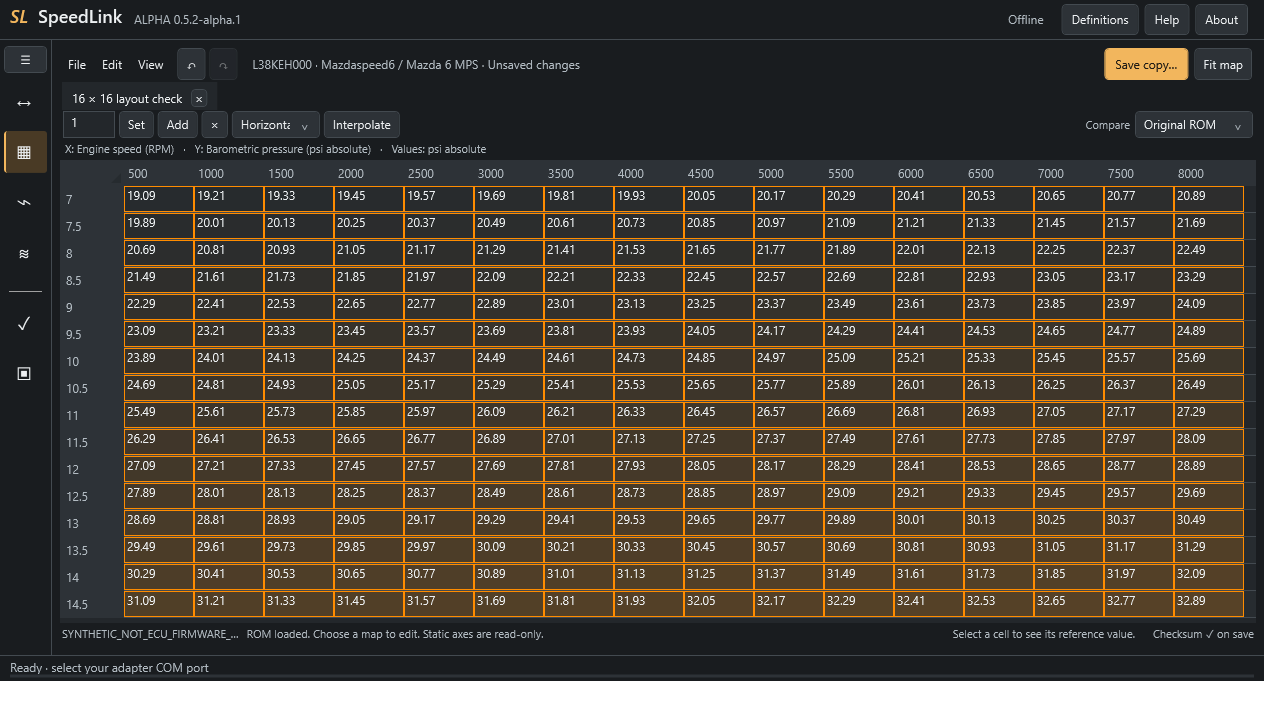
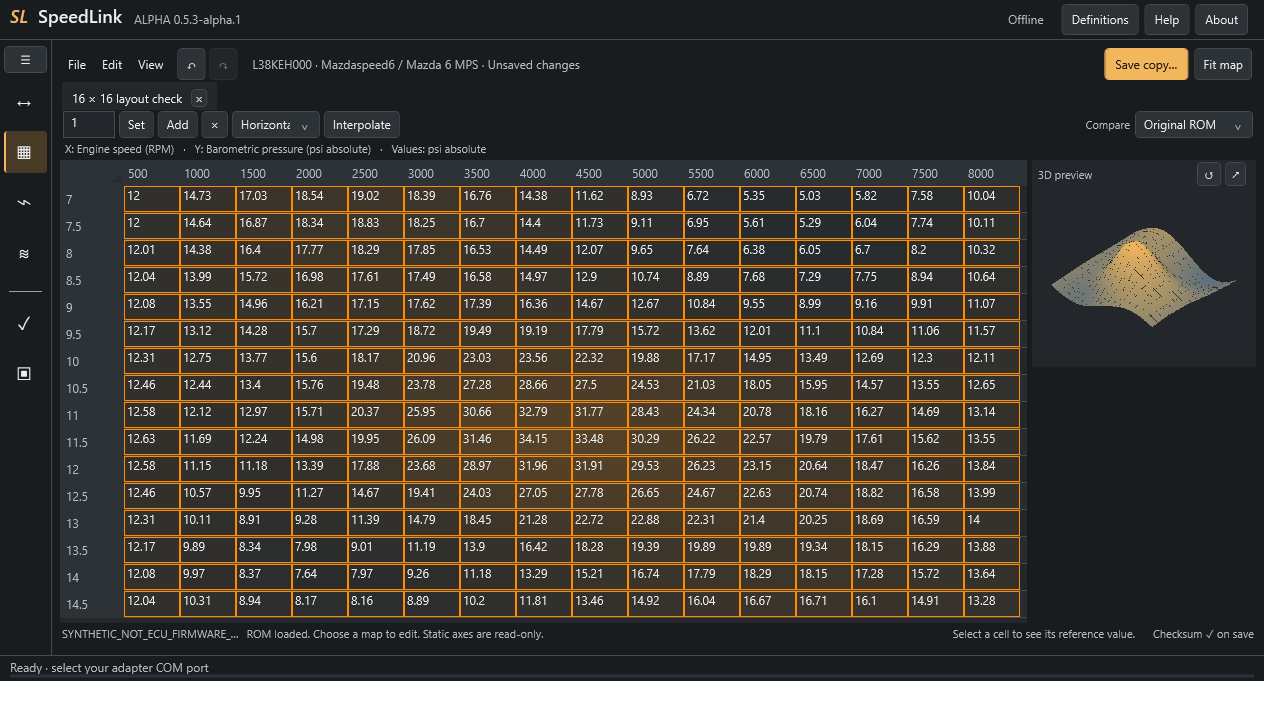
Keep a compact 3D preview beside table editing

Changed region(s): [[0.0938, 0.2139, 1.0, 0.8556]]

diff --git a/dotnet/src/SpeedLink.Desktop/EditorWorkspace.xaml b/dotnet/src/SpeedLink.Desktop/EditorWorkspace.xaml
@@ -9,7 +9,7 @@
    <Menu DockPanel.Dock="Left" Background="Transparent" Foreground="{DynamicResource TextBrush}" VerticalAlignment="Center">
     <MenuItem Header="_File"><MenuItem Header="Open ROM…" InputGestureText="Ctrl+O" Click="Open_Click"/><MenuItem Header="Save a new copy…" InputGestureText="Ctrl+S" Click="Save_Click"/><Separator/><MenuItem Header="Editor guide" Click="Guide_Click"/></MenuItem>
     <MenuItem Header="_Edit"><MenuItem Header="Copy" InputGestureText="Ctrl+C" Click="Copy_Click"/><MenuItem Header="Paste" InputGestureText="Ctrl+V" Click="Paste_Click"/><MenuItem Header="Reset selection to baseline" Click="Reset_Click"/><Separator/><MenuItem x:Name="CompareButton" Header="Compare ROM…" Click="Compare_Click"/></MenuItem>
-    <MenuItem Header="_View"><MenuItem Header="Fit entire map" InputGestureText="Ctrl+0" Click="FitMap_Click"/><Separator/><MenuItem x:Name="BelowItem" Header="Table above graph" Tag="0" IsCheckable="True" Click="ViewMenu_Click"/><MenuItem x:Name="BesideItem" Header="Table beside graph" Tag="1" IsCheckable="True" Click="ViewMenu_Click"/><MenuItem x:Name="TableItem" Header="Table only" Tag="2" IsCheckable="True" Click="ViewMenu_Click"/><MenuItem x:Name="GraphItem" Header="Graph only" Tag="3" IsCheckable="True" Click="ViewMenu_Click"/><Separator/><MenuItem x:Name="FocusButton" Header="Hide map browser" InputGestureText="Ctrl+B" IsCheckable="True" Checked="Layout_Changed" Unchecked="Layout_Changed"/><MenuItem Header="Pop out map browser" Click="PopBrowser_Click"/><MenuItem Header="Dock map browser" Click="DockBrowser_Click"/><MenuItem Header="Pop out graph" Click="PopGraph_Click"/><MenuItem Header="Dock graph" Click="DockGraph_Click"/><Separator/><MenuItem x:Name="DetailsButton" Header="Map information…" IsCheckable="True" Checked="Layout_Changed" Unchecked="Layout_Changed"/><MenuItem x:Name="ChangesButton" Header="Changes (0)" IsCheckable="True" Checked="Layout_Changed" Unchecked="Layout_Changed"/></MenuItem>
+    <MenuItem Header="_View"><MenuItem Header="Fit entire map" InputGestureText="Ctrl+0" Click="FitMap_Click"/><Separator/><MenuItem x:Name="PreviewItem" Header="Table with 3D preview" Tag="4" IsCheckable="True" Click="ViewMenu_Click"/><MenuItem x:Name="BelowItem" Header="Table above graph" Tag="0" IsCheckable="True" Click="ViewMenu_Click"/><MenuItem x:Name="BesideItem" Header="Table beside graph" Tag="1" IsCheckable="True" Click="ViewMenu_Click"/><MenuItem x:Name="TableItem" Header="Table only" Tag="2" IsCheckable="True" Click="ViewMenu_Click"/><MenuItem x:Name="GraphItem" Header="Graph only" Tag="3" IsCheckable="True" Click="ViewMenu_Click"/><Separator/><MenuItem x:Name="FocusButton" Header="Hide map browser" InputGestureText="Ctrl+B" IsCheckable="True" Checked="Layout_Changed" Unchecked="Layout_Changed"/><MenuItem Header="Pop out map browser" Click="PopBrowser_Click"/><MenuItem Header="Dock map browser" Click="DockBrowser_Click"/><MenuItem Header="Pop out graph" Click="PopGraph_Click"/><MenuItem Header="Dock graph" Click="DockGraph_Click"/><Separator/><MenuItem x:Name="DetailsButton" Header="Map information…" IsCheckable="True" Checked="Layout_Changed" Unchecked="Layout_Changed"/><MenuItem x:Name="ChangesButton" Header="Changes (0)" IsCheckable="True" Checked="Layout_Changed" Unchecked="Layout_Changed"/></MenuItem>
    </Menu>
    <StackPanel DockPanel.Dock="Left" Orientation="Horizontal" Margin="6,0"><Button x:Name="UndoButton" Content="↶" Click="Undo_Click" ToolTip="Undo · Ctrl+Z" Width="28"/><Button x:Name="RedoButton" Content="↷" Click="Redo_Click" ToolTip="Redo · Ctrl+Y" Width="28"/></StackPanel>
    <TextBlock x:Name="ProfileText" VerticalAlignment="Center" Foreground="{DynamicResource MutedBrush}" TextTrimming="CharacterEllipsis" Margin="5,0"/>
@@ -36,7 +36,7 @@
       <DataGrid.ColumnHeaderStyle><Style TargetType="DataGridColumnHeader" BasedOn="{StaticResource {x:Type DataGridColumnHeader}}"><Setter Property="Padding" Value="4,2"/></Style></DataGrid.ColumnHeaderStyle>
      </DataGrid>
      <GridSplitter x:Name="DataSplitter" Grid.Row="1" Height="5" HorizontalAlignment="Stretch" Background="{DynamicResource ShellBrush}" DragCompleted="LayoutSplitter_Completed"/>
-     <Grid x:Name="GraphPanel" Grid.Row="2" Background="{DynamicResource PanelBrush}"><Grid.RowDefinitions><RowDefinition Height="28"/><RowDefinition Height="*"/></Grid.RowDefinitions><DockPanel Margin="6,2"><StackPanel DockPanel.Dock="Right" Orientation="Horizontal"><Button Content="Fit view" Click="ResetView_Click" Padding="6,1" MinHeight="23"/><Button Content="↗" Click="PopGraph_Click" ToolTip="Pop out graph" Padding="5,1" MinHeight="23"/></StackPanel><TextBlock x:Name="GraphTitle" Text="Curve / surface" Foreground="{DynamicResource MutedBrush}" FontSize="11" TextTrimming="CharacterEllipsis" VerticalAlignment="Center"/></DockPanel><local:TuningGraph Grid.Row="1" x:Name="Graph" Margin="4"/></Grid>
+     <Grid x:Name="GraphPanel" Grid.Row="2" Background="{DynamicResource PanelBrush}"><Grid.RowDefinitions><RowDefinition Height="28"/><RowDefinition Height="*"/></Grid.RowDefinitions><DockPanel Margin="6,2"><StackPanel DockPanel.Dock="Right" Orientation="Horizontal"><Button x:Name="FitViewButton" Content="Fit view" ToolTip="Fit view" Click="ResetView_Click" Padding="6,1" MinHeight="23"/><Button Content="↗" Click="PopGraph_Click" ToolTip="Pop out graph" Padding="5,1" MinHeight="23"/></StackPanel><TextBlock x:Name="GraphTitle" Text="Curve / surface" Foreground="{DynamicResource MutedBrush}" FontSize="11" TextTrimming="CharacterEllipsis" VerticalAlignment="Center"/></DockPanel><local:TuningGraph Grid.Row="1" x:Name="Graph" Margin="4"/></Grid>
     </Grid>
    </Grid>
    <Border x:Name="DetailsPanel" Grid.Column="2" Visibility="Collapsed" Background="{DynamicResource PanelBrush}" Padding="14"><ScrollViewer VerticalScrollBarVisibility="Auto"><StackPanel><TextBlock x:Name="MapTitle" FontSize="17" FontWeight="SemiBold" TextWrapping="Wrap"/><TextBlock x:Name="HelpText" Text="Choose a map." TextWrapping="Wrap" Margin="0,10"/><Expander Header="Storage details"><TextBlock x:Name="StorageText" TextWrapping="Wrap" Margin="0,8,0,0"/></Expander></StackPanel></ScrollViewer></Border>

diff --git a/dotnet/src/SpeedLink.Desktop/EditorDocking.cs b/dotnet/src/SpeedLink.Desktop/EditorDocking.cs
@@ -22,7 +22,7 @@ public partial class EditorWorkspace
     {
         layoutPath = path; navigationCollapsed = getNavigationCollapsed; preferences = EditorLayoutPreferences.Load(path);
         restoringLayout = true; browserWidth = preferences.BrowserWidth; curveWidth = preferences.CurveWidth; tableFraction = preferences.TableFraction; fitTable = preferences.FitTable;
-        FocusButton.IsChecked = preferences.BrowserHidden; SetViewMode(preferences.View);
+        FocusButton.IsChecked = preferences.BrowserHidden; SetViewMode(preferences.FitTable && preferences.View == 2 ? 4 : preferences.View);
         Loaded += RestoreFloating;
     }
     private void RestoreFloating(object sender, RoutedEventArgs e)
@@ -97,19 +97,27 @@ public partial class EditorWorkspace
     }
     internal void SetViewMode(int mode)
     {
-        ViewMode = Math.Clamp(mode, 0, 3);
+        ViewMode = Math.Clamp(mode, 0, 4);
         if (DataLayout is null) return;
-        BelowItem.IsChecked = ViewMode == 0; BesideItem.IsChecked = ViewMode == 1; TableItem.IsChecked = ViewMode == 2; GraphItem.IsChecked = ViewMode == 3;
         ApplyView(); SaveLayout();
     }
     private void ApplyView()
     {
-        bool floating = graphWindow is not null, beside = ViewMode == 1 && !floating, graphOnly = ViewMode == 3 && !floating, below = ViewMode == 0 && !floating;
-        Grid.SetRow(GraphPanel, beside || graphOnly ? 0 : 2); Grid.SetColumn(GraphPanel, beside ? 2 : 0);
+        bool surface = table is { Rows: > 1, IsChoice: false };
+        bool floating = graphWindow is not null, preview = ViewMode == 4 && surface && !floating;
+        bool beside = ViewMode == 1 && !floating, graphOnly = ViewMode == 3 && !floating, below = (ViewMode == 0 || ViewMode == 4 && !surface) && !floating;
+        PreviewItem.IsChecked = ViewMode == 4 && surface; PreviewItem.IsEnabled = surface;
+        BelowItem.IsChecked = ViewMode == 0 || ViewMode == 4 && !surface; BesideItem.IsChecked = ViewMode == 1; TableItem.IsChecked = ViewMode == 2; GraphItem.IsChecked = ViewMode == 3;
+        Grid.SetRow(GraphPanel, preview || beside || graphOnly ? 0 : 2); Grid.SetColumn(GraphPanel, preview || beside ? 2 : 0);
         TableRow.Height = new(below ? tableFraction : 1, GridUnitType.Star); GraphRow.Height = below ? new(1 - tableFraction, GridUnitType.Star) : new(0);
-        DataDividerRow.Height = new(below ? 5 : 0); DataDividerColumn.Width = new(beside ? 5 : 0);
+        DataDividerRow.Height = new(below ? 5 : 0); DataDividerColumn.Width = new(preview || beside ? 5 : 0);
         TableColumn.Width = beside && CurveList ? new(Math.Min(curveWidth, Math.Max(180, DataLayout.ActualWidth - 200))) : new(beside ? tableFraction : 1, GridUnitType.Star);
-        GraphColumn.Width = beside ? new(1 - tableFraction, GridUnitType.Star) : new(0);
+        var thumbnail = TablePreviewSize.Calculate(DataLayout.ActualWidth, DataLayout.ActualHeight, table?.Columns ?? 1, MapGrid.RowHeaderWidth);
+        GraphColumn.Width = preview ? new(thumbnail.Width) : beside ? new(1 - tableFraction, GridUnitType.Star) : new(0);
+        GraphPanel.Height = preview ? thumbnail.Height : double.NaN; GraphPanel.VerticalAlignment = preview ? VerticalAlignment.Top : VerticalAlignment.Stretch;
+        Graph.SetCompactPreview(preview); FitViewButton.Content = preview ? "↺" : "Fit view";
+        if (preview) GraphTitle.Text = "3D preview";
+        else GraphTitle.Text = surface ? "3D · drag to rotate · wheel to zoom" : "Curve · wheel to zoom · Shift+drag to pan · click a point";
         MapGrid.Visibility = graphOnly ? Visibility.Collapsed : Visibility.Visible; GraphPanel.Visibility = floating || ViewMode != 2 ? Visibility.Visible : Visibility.Collapsed;
         Grid.SetRow(DataSplitter, beside ? 0 : 1); Grid.SetColumn(DataSplitter, beside ? 1 : 0);
         DataSplitter.Width = beside ? 5 : double.NaN; DataSplitter.Height = beside ? double.NaN : 5;
@@ -123,7 +131,7 @@ public partial class EditorWorkspace
     private void FitMap_Click(object sender, RoutedEventArgs e)
     {
         FocusButton.IsChecked = true; ChangesButton.IsChecked = false; DetailsButton.IsChecked = false; fitTable = true;
-        SetViewMode(CurveList ? 1 : 2); Graph.ResetView();
+        SetViewMode(CurveList ? 1 : table?.Rows > 1 ? 4 : 2); Graph.ResetView();
         Dispatcher.BeginInvoke(new Action(() => { UpdateLayout(); UpdateTableSizing(); SaveLayout(); }));
     }
     private void HideBrowser_Click(object sender, RoutedEventArgs e) => FocusButton.IsChecked = true;
@@ -148,7 +156,8 @@ public partial class EditorWorkspace
         window.Closed += (_, _) =>
         {
             preferences = preferences with { GraphBounds = Bounds(window, preferences.GraphBounds) };
-            window.Content = null; DataLayout.Children.Add(GraphPanel); graphWindow = null; SetViewMode(0); ApplyLayout(); SaveLayout();
+            window.Content = null; DataLayout.Children.Add(GraphPanel); graphWindow = null;
+            if (ViewMode == 2) SetViewMode(table?.Rows > 1 ? 4 : 0); ApplyLayout(); SaveLayout();
         };
         ApplyView(); window.Show(); SaveLayout();
     }
@@ -161,13 +170,16 @@ public partial class EditorWorkspace
         else if (ViewMode == 1) tableFraction = Math.Clamp(TableColumn.ActualWidth / Math.Max(1, TableColumn.ActualWidth + GraphColumn.ActualWidth), .2, .8);
         ApplyLayout(); SaveLayout();
     }
-    private void DataLayout_SizeChanged(object sender, SizeChangedEventArgs e) => UpdateTableSizing();
+    private void DataLayout_SizeChanged(object sender, SizeChangedEventArgs e) { if (ViewMode == 4) ApplyView(); else UpdateTableSizing(); }
     private void UpdateTableSizing()
     {
         if (table is null || MapGrid.ActualWidth < 10 || MapGrid.Columns.Count == 0) return;
         if (CurveList)
         { MapGrid.Columns[0].Width = new(1, DataGridLengthUnitType.Star); MapGrid.Columns[1].Width = new(1, DataGridLengthUnitType.Star); MapGrid.RowHeight = 25; return; }
         var size = TableFit.Calculate(MapGrid.ActualWidth, MapGrid.ActualHeight, table.Columns, table.Rows, MapGrid.RowHeaderWidth);
+        double rowHeight = fitTable ? size.RowHeight : 25;
+        if (table.Rows * rowHeight + MapGrid.ColumnHeaderHeight > MapGrid.ActualHeight)
+            size = TableFit.Calculate(MapGrid.ActualWidth - SystemParameters.VerticalScrollBarWidth, MapGrid.ActualHeight, table.Columns, table.Rows, MapGrid.RowHeaderWidth);
         foreach (var column in MapGrid.Columns) column.Width = table.Columns == 1 ? new(1, DataGridLengthUnitType.Star) : new(size.ColumnWidth);
         MapGrid.RowHeight = fitTable ? size.RowHeight : 25;
     }

diff --git a/dotnet/src/SpeedLink.Desktop/EditorLayoutChecks.cs b/dotnet/src/SpeedLink.Desktop/EditorLayoutChecks.cs
@@ -21,7 +21,7 @@ public partial class EditorWorkspace
         var snapshot = document.Snapshot(); string path = document.SourcePath;
         document = new(snapshot, path, inspector, codeGuard, [definition]); document.Changed += Document_Changed;
         MapTabs.Items.Clear(); OpenTable(sample);
-        document.Apply(Enumerable.Range(0, 256).Select(i => new CellEdit(sample, i, 19.091319625854492 + i / 16 * .8 + i % 16 * .12)), "Synthetic surface fixture");
+        document.Apply(Enumerable.Range(0, 256).Select(i => { double x = i % 16 / 15d, y = i / 16 / 15d; return new CellEdit(sample, i, 12 + 24 * Math.Exp(-18 * ((x - .45) * (x - .45) + (y - .6) * (y - .6))) + 7 * Math.Sin(x * 6) * Math.Cos(y * 4)); }), "Synthetic surface fixture");
         var measurements = new List<object>();
         foreach (var size in new[] { (1280d, 720d), (1024d, 700d) })
         {
@@ -32,11 +32,11 @@ public partial class EditorWorkspace
             var last = MapGrid.Columns[15].GetCellContent(MapGrid.Items[15]) ?? throw new InvalidOperationException("Last table cell was virtualized.");
             var lastRect = last.TransformToAncestor(MapGrid).TransformBounds(new Rect(last.RenderSize));
             if (scroll.ScrollableWidth > .5 || scroll.ScrollableHeight > .5 || lastRect.Right > MapGrid.ActualWidth + .5 || lastRect.Bottom > MapGrid.ActualHeight + .5 ||
-                MapGrid.FontSize < 12 || MapGrid.RowHeight < 22 || MapGrid.Columns.Any(c => c.ActualWidth < 44) || !AxesText.IsVisible)
+                MapGrid.FontSize < 12 || MapGrid.RowHeight < 22 || MapGrid.Columns.Any(c => c.ActualWidth < 44) || !AxesText.IsVisible || ViewMode != 4 || !GraphPanel.IsVisible || Grid.GetColumn(GraphPanel) != 2 || GraphPanel.ActualHeight > 210 || GraphPanel.ActualWidth < 150)
                 throw new InvalidOperationException($"16×16 map does not fit at {size}: scroll {scroll.ScrollableWidth}/{scroll.ScrollableHeight}, grid {MapGrid.ActualWidth}/{MapGrid.ActualHeight}, last {lastRect}, columns {string.Join(',', MapGrid.Columns.Select(c => c.ActualWidth))}.");
             CaptureHost(Path.Combine(folder, $"Fit16x16-{size.Item1:0}x{size.Item2:0}.png"));
             measurements.Add(new { windowWidth = size.Item1, windowHeight = size.Item2, gridWidth = MapGrid.ActualWidth, gridHeight = MapGrid.ActualHeight, rowHeight = MapGrid.RowHeight,
-                columnWidth = MapGrid.Columns[0].ActualWidth, horizontalScroll = scroll.ScrollableWidth, verticalScroll = scroll.ScrollableHeight, lastCellVisible = true });
+                columnWidth = MapGrid.Columns[0].ActualWidth, horizontalScroll = scroll.ScrollableWidth, verticalScroll = scroll.ScrollableHeight, lastCellVisible = true, previewWidth = GraphPanel.ActualWidth, previewHeight = GraphPanel.ActualHeight });
         }
         SelectCell(0); byte[] precise = document.Snapshot(); double exact = document.Read(sample, 0);
         if (!MapGrid.BeginEdit()) throw new InvalidOperationException("Cannot enter a fitted table cell."); UpdateLayout();
@@ -60,6 +60,8 @@ public partial class EditorWorkspace
         }
         graphWindow!.Width = 740; graphWindow.Height = 510; graphWindow.UpdateLayout();
         CaptureWindow(graphWindow, Path.Combine(folder, "SurfacePopout.png")); DockGraph_Click(this, new());
+        UpdateLayout(); if (ViewMode != 4 || !GraphPanel.IsVisible || GraphPanel.ActualHeight > 210) throw new InvalidOperationException("Docking did not restore the compact preview.");
+        SelectCell(8 * 16 + 8); if (Graph.SelectedCell != 8 * 16 + 8) throw new InvalidOperationException("Preview selection did not follow the table.");
         resize(1280, 720); FocusButton.IsChecked = false;
         var maf = document.Definition.Tables.First(t => t.Name.StartsWith("MAF Calibration", StringComparison.Ordinal) && t.Columns > 100);
         OpenTable(maf);
@@ -98,7 +100,7 @@ public partial class EditorWorkspace
         if (!saved.BrowserHidden || saved.View != 2 || saved.BrowserWidth != 230) throw new InvalidOperationException("Layout did not persist.");
         curveWidth = 325; PopBrowser_Click(this, new()); PopGraph_Click(this, new()); SaveLayout();
         return new { passed = true, hardwareAccessed = false, synthetic = true, full16x16 = measurements, precisionPreserved = true, mapInfoUsesNoTableSpace = true,
-            popoutsPreserveEdits = true, surfaceFitsWideAndTallPanes = true, mafPoints = maf.Count, mafVoltageReadOnly = true, mafLastPointLinked = true, curveZoom = true,
+            popoutsPreserveEdits = true, surfaceFitsWideAndTallPanes = true, compactPreview = true, mafPoints = maf.Count, mafVoltageReadOnly = true, mafLastPointLinked = true, curveZoom = true,
             mafBulkEditsAndClipboard = true, checksumVerified = true, layoutPersisted = true };
     }
     internal void CheckRestoredLayout()

diff --git a/dotnet/src/SpeedLink.Desktop/EditorWorkspace.xaml.cs b/dotnet/src/SpeedLink.Desktop/EditorWorkspace.xaml.cs
@@ -42,7 +42,7 @@ public partial class EditorWorkspace : UserControl
     {
         this.inspector = inspector; this.codeGuard = codeGuard;
         UiTheme.Ensure(); InitializeComponent(); BaselineBox.ItemsSource = new[] { "Original ROM", "Last save", "Comparison ROM" }; BaselineBox.SelectedIndex = 0;
-        Graph.CellPicked += index => SelectCell(index); RefreshControls(); SetViewMode(0);
+        Graph.CellPicked += index => SelectCell(index); RefreshControls(); SetViewMode(4);
     }
     public void OpenRom(string path)
     {
@@ -143,7 +143,7 @@ public partial class EditorWorkspace : UserControl
         bool wasCurve = CurveList;
         table = (MapTabs.SelectedItem as TabItem)?.Tag as TuningTable;
         if (CurveList && !wasCurve) SetViewMode(1);
-        else if (wasCurve && !CurveList) SetViewMode(0);
+        else if (wasCurve && !CurveList) SetViewMode(table?.Rows > 1 ? 4 : 0);
         RefreshTable(); RefreshControls(); ApplyView();
     }
     private int NativeIndex(EditorRow row, int column) => CurveList ? row.Index : row.Index * table!.Columns + column;
@@ -343,7 +343,13 @@ public partial class EditorWorkspace : UserControl
         OpenTable(documentationCurve); SelectCell(0);
         foreach (var category in MapTree.Items.OfType<TreeViewItem>()) category.IsExpanded = (string?)category.Tag == documentationCurve.Category;
         UpdateLayout(); Capture(Path.Combine(folder, "CurveEditor.png"));
-        OpenTable(surface); SelectCell(surface.Columns + 2); UpdateLayout(); Capture(Path.Combine(folder, "SurfaceEditor.png"));
+        var illustrated = doc.Definition.Tables.FirstOrDefault(t => t.Name == "Intake Cam Advance (VVT)") ?? surface;
+        OpenTable(illustrated); FocusButton.IsChecked = true; DetailsButton.IsChecked = false; FitMap_Click(this, new()); SelectCell(illustrated.Columns + 2); UpdateLayout();
+        await Dispatcher.InvokeAsync(() => { }, System.Windows.Threading.DispatcherPriority.ApplicationIdle); UpdateLayout();
+        Capture(Path.Combine(folder, "SurfaceEditor.png"));
+        PopGraph_Click(this, new()); graphWindow!.UpdateLayout();
+        await Dispatcher.InvokeAsync(() => { }, System.Windows.Threading.DispatcherPriority.ApplicationIdle);
+        CaptureWindow(graphWindow, Path.Combine(folder, "VvtSurface.png")); DockGraph_Click(this, new());
         return new { passed = true, calibration = doc.Definition.Calibration, controls = doc.Definition.Tables.Count, grid = true, directCellCommit = true, curve = true, surface = true, bitSelector = true, undoRedo = true, comparison = true, changedFilter = true, noEditExportIdentical = true, focusedAndAllViews = true, changesDrawer = true, workspaceEditsPreserved = true };
     }
     private void Capture(string path)

diff --git a/dotnet/tests/SpeedLink.Tests/EditorLayoutTests.cs b/dotnet/tests/SpeedLink.Tests/EditorLayoutTests.cs
@@ -18,7 +18,7 @@ public sealed class EditorLayoutTests
         foreach (string corrupt in new[] { "{", "null", "{\"View\":\"bad\"}", new string(' ', 65537) })
         { File.WriteAllText(path, corrupt); Assert.Equal(new EditorLayoutPreferences(), EditorLayoutPreferences.Load(path)); }
         File.WriteAllText(path, "{\"BrowserBounds\":null,\"GraphBounds\":null,\"View\":99,\"BrowserWidth\":-100,\"CurveWidth\":900,\"TableFraction\":1}");
-        var recovered = EditorLayoutPreferences.Load(path); Assert.Equal(3, recovered.View); Assert.Equal(160, recovered.BrowserWidth);
+        var recovered = EditorLayoutPreferences.Load(path); Assert.Equal(4, recovered.View); Assert.Equal(160, recovered.BrowserWidth);
         Assert.Equal(600, recovered.CurveWidth); Assert.Equal(.8, recovered.TableFraction); Assert.Equal(new PanelBounds(), recovered.BrowserBounds);
         var nonfinite = (expected with { BrowserWidth = double.NaN, CurveWidth = double.PositiveInfinity, TableFraction = double.NaN, GraphBounds = new(double.NaN, double.PositiveInfinity, double.NaN, double.NegativeInfinity) }).Validate();
         Assert.Equal(200, nonfinite.BrowserWidth); Assert.Equal(300, nonfinite.CurveWidth); Assert.Null(nonfinite.GraphBounds.Left); Assert.Null(nonfinite.GraphBounds.Top);
@@ -32,6 +32,19 @@ public sealed class EditorLayoutTests
         Assert.True(fit.Fits); Assert.InRange(fit.ColumnWidth, 44, 90); Assert.InRange(fit.RowHeight, 22, 28);
         Assert.True(fit.ColumnWidth * 16 + 68 <= width); Assert.True(fit.RowHeight * 16 + 30 <= height);
         Assert.False(TableFit.Calculate(600, 300, 16, 16).Fits);
+    }
+    [Theory]
+    [InlineData(940, 443)]
+    [InlineData(1196, 463)]
+    public void PreviewLeavesRoomForAll16RowsAndColumns(double width, double height)
+    {
+        var preview = TablePreviewSize.Calculate(width, height, 16);
+        var table = TableFit.Calculate(width - preview.Width - 5, height, 16, 16);
+        Assert.True(table.Fits); Assert.InRange(preview.Width, 160, 224); Assert.InRange(preview.Height, 156, 208);
+        Assert.True(preview.Height < height / 2);
+        using var folder = new TempFolder(); string path = Path.Combine(folder.Path, "preview.json");
+        new EditorLayoutPreferences { View = 4, FitTable = true }.Save(path);
+        Assert.Equal(4, EditorLayoutPreferences.Load(path).View);
     }
     public static IEnumerable<object[]> Profiles => Fixture.Profiles.Select(p => new object[] { p.Calibration });
     [Theory, MemberData(nameof(Profiles))]

diff --git a/dotnet/src/SpeedLink.Core/EditorLayoutPreferences.cs b/dotnet/src/SpeedLink.Core/EditorLayoutPreferences.cs
@@ -11,7 +11,7 @@ public sealed record EditorLayoutPreferences
     public bool GraphFloating { get; init; }
     public double BrowserWidth { get; init; } = 200;
     public double CurveWidth { get; init; } = 300;
-    public int View { get; init; }
+    public int View { get; init; } = 4;
     public double TableFraction { get; init; } = .6;
     public bool FitTable { get; init; }
     public PanelBounds BrowserBounds { get; init; } = new();
@@ -24,7 +24,7 @@ public sealed record EditorLayoutPreferences
             double.IsFinite(p.Height) ? Math.Clamp(p.Height, 200, 1400) : fallback.Height);
         return this with { BrowserWidth = double.IsFinite(BrowserWidth) ? Math.Clamp(BrowserWidth, 160, 480) : 200,
             CurveWidth = double.IsFinite(CurveWidth) ? Math.Clamp(CurveWidth, 180, 600) : 300,
-            View = Math.Clamp(View, 0, 3), TableFraction = double.IsFinite(TableFraction) ? Math.Clamp(TableFraction, .2, .8) : .6,
+            View = Math.Clamp(View, 0, 4), TableFraction = double.IsFinite(TableFraction) ? Math.Clamp(TableFraction, .2, .8) : .6,
             BrowserBounds = Bounds(BrowserBounds, new()), GraphBounds = Bounds(GraphBounds, new(Width: 700, Height: 520)) };
     }
     public static EditorLayoutPreferences Load(string path)
@@ -59,5 +59,15 @@ public readonly record struct TableFit(double ColumnWidth, double RowHeight, boo
         double cell = Math.Max(44, Math.Min(90, Math.Floor((width - rowHeader - 4) / columns)));
         double row = Math.Max(22, Math.Min(28, Math.Floor((height - 30) / rows)));
         return new(cell, row, columns * cell + rowHeader + 4 <= width && rows * row + 30 <= height);
+    }
+}
+
+public readonly record struct TablePreviewSize(double Width, double Height)
+{
+    public static TablePreviewSize Calculate(double width, double height, int columns, double rowHeader = 64)
+    {
+        if (columns < 1) throw new ArgumentOutOfRangeException(nameof(columns));
+        double previewWidth = Math.Clamp(width - (columns * 44 + rowHeader + 4) - 5, 160, 224);
+        return new(previewWidth, Math.Min(height, Math.Clamp(previewWidth * .8 + 28, 156, 208)));
     }
 }

diff --git a/dotnet/src/SpeedLink.Desktop/TuningGraph.cs b/dotnet/src/SpeedLink.Desktop/TuningGraph.cs
@@ -24,6 +24,12 @@ public sealed class TuningGraph : Grid
     private GeometryModel3D? surface;
     internal Rect SurfaceFrame { get; private set; }
     internal Size SurfaceViewport => viewport.RenderSize;
+    internal int SelectedCell => selected;
+    internal void SetCompactPreview(bool compact)
+    {
+        legend.Visibility = compact ? Visibility.Collapsed : Visibility.Visible;
+        viewport.Margin = compact ? new(4) : new(4, 4, 4, 24);
+    }
     public event Action<int>? CellPicked;
     public TuningGraph()
     {

diff --git a/dotnet/src/SpeedLink.Desktop/MainWindow.xaml.cs b/dotnet/src/SpeedLink.Desktop/MainWindow.xaml.cs
@@ -17,7 +17,7 @@ namespace SpeedLink.Desktop;
 
 public partial class MainWindow : Window
 {
-    public const string Version = "0.5.2-alpha.1";
+    public const string Version = "0.5.3-alpha.1";
     private void Editor_Click(object sender, RoutedEventArgs e) => Navigate(1);
     private readonly string vault;
     private readonly RomInspector inspector = new();

diff --git a/README.md b/README.md
@@ -4,7 +4,7 @@ Open-source ROM reading, data logging and offline ROM editing for Mazdaspeed and
 
 [![C# checks](https://github.com/mrphyslaw/SpeedLink/actions/workflows/checks-dotnet.yml/badge.svg)](https://github.com/mrphyslaw/SpeedLink/actions/workflows/checks-dotnet.yml)
 
-**[Download v0.5.2-alpha.1](https://github.com/mrphyslaw/SpeedLink/releases/tag/v0.5.2-alpha.1)** — a single Windows EXE, with no installer or .NET installation required.
+**[Download v0.5.3-alpha.1](https://github.com/mrphyslaw/SpeedLink/releases/tag/v0.5.3-alpha.1)** — a single Windows EXE, with no installer or .NET installation required.
 
 SpeedLink can dump unknown 1 MiB MZR DISI ROMs, create two-pass verified backups,
 log stock-ECU data, review recordings and edit the seven supported stock ROM layouts.
@@ -19,7 +19,8 @@ are not bundled. Real Mazda ECU validation remains pending.
 
 Browse related maps, edit the grid, compare values and inspect 2D curves or
 rotatable 3D surfaces. [More editor screenshots and a first-edit walkthrough →](docs/editor/README.md)
-Screenshots use synthetic test values; they are not tuning recommendations.
+The layout and MAF examples use synthetic values; the VVT surface shows an
+L38KEH000 ROM example. Screenshots are not tuning recommendations.
 
 ### Logging and recordings
 
@@ -48,7 +49,9 @@ a vehicle test or measured ECU logging rates.
 The Workbench keeps editing, logging and recordings in one window. **Fit map**
 gives the table the available workspace. The app navigation collapses to icons;
 the map browser and graph can be resized, hidden or moved into separate windows.
-Use **View** for layout options, map information and changed maps.
+Use **View** for layout options, map information and changed maps. 3D tables can
+keep a small surface preview at the upper-right of the grid; MAF curves keep
+their value list on the left and graph on the right.
 
 1. Open **Editor**, then **File → Open ROM…**.
 2. Select a map from the categorized list or use search. Related numbered maps

diff --git a/docs/editor/README.md b/docs/editor/README.md
@@ -14,8 +14,9 @@ window sizes with app navigation collapsed. Larger maps retain scrolling.
 The ☰ button expands or collapses navigation; Ctrl+B hides or restores the
 map browser. Use **View** for layout options and floating panels.
 
-Screenshots use synthetic layout/curve fixtures, not vehicle tuning values.
-The 16×16 example is a layout test, not an added stock calibration map.
+The 16×16 and MAF examples use synthetic layout/curve fixtures. The 16×16
+example is a layout test, not an added stock calibration map. VVT screenshots
+show an L38KEH000 ROM example. These are interface examples, not tuning advice.
 
 ## Long MAF curves
 
@@ -30,12 +31,19 @@ and paste retain full precision. Units and axis names stay above the table.
 
 ## Rotatable 3D surfaces
 
-![A 3D surface in its separate graph window](images/surface-editor.png)
+![Intake cam advance table with a compact 3D preview at the upper-right](images/table-preview.png)
+
+**Table with 3D preview** places the surface at the upper-right of the grid,
+keeping the table's full height. **Fit map** retains this preview while a full
+16×16 grid fits at both tested sizes. The graph stays on the right, like the
+MAF editor. Its controls and linked cell selection work the same way.
+
+![An intake cam advance VVT surface showing its raised areas and transitions](images/surface-editor.png)
 
 Drag to rotate a surface and use the mouse wheel to zoom. Click a point on the
 graph to select its grid cell. Resizable panes let you give the grid or graph
 more room. **Fit view** frames the entire surface. Pop the graph into a separate
-window to use another monitor; closing that window docks it again.
+window to use another monitor; closing that window restores the preview.
 
 ## Map information and changes
 

diff --git a/dotnet/docs/Validation.md b/dotnet/docs/Validation.md
@@ -1,5 +1,18 @@
 # C# validation
 
+## Table preview — 0.5.3-alpha.1
+
+- 261 C# tests pass, including preview sizing and layout persistence.
+- Seven desktop layout workflows retain a visible upper-right 3D preview while
+  a complete synthetic 16×16 grid fits at both target logical window sizes.
+  The same workflows cover linked selection, pop-out/dock behavior, precision,
+  checksum exports and the existing 129-point MAF editor.
+- Seven Workbench and seven definition-import workflows pass. An L38KEH000
+  intake-cam VVT example verifies the standalone editor and illustrates a
+  surface with distinct levels and transitions. The original ROM is preserved.
+- Existing reader/logger behavior is unchanged. Tests remain offline; no new
+  adapter or real-ECU validation is claimed.
+
 ## Compact editor — 0.5.2-alpha.1
 
 - 259 C# tests pass, including all seven long MAF curves, clipboard bounds and

diff --git a/docs/EDITOR.md b/docs/EDITOR.md
@@ -90,6 +90,11 @@ logical window sizes without table scrollbars. Larger maps retain scrolling;
 the editor keeps readable cell sizes. Long curves keep their list/graph view.
 
 **View** offers table above graph, table beside graph, table only and graph only.
+**Table with 3D preview** keeps a small, rotatable surface at the upper-right of
+the grid. **Fit map** uses this view for 3D tables, preserving the grid's full
+height. The MAF layout keeps its value list on the left and curve on the right.
+The preview shares the graph's fit-view and pop-out controls. Docking the graph
+returns it to the preview; choose another View layout for a larger docked graph.
 Drag the divider to resize the panes. **Hide map browser** (Ctrl+B) gives the
 map more room; use the same command to restore it. Both the map browser and
 graph can pop into separate windows, with dock commands in **View**. Closing
